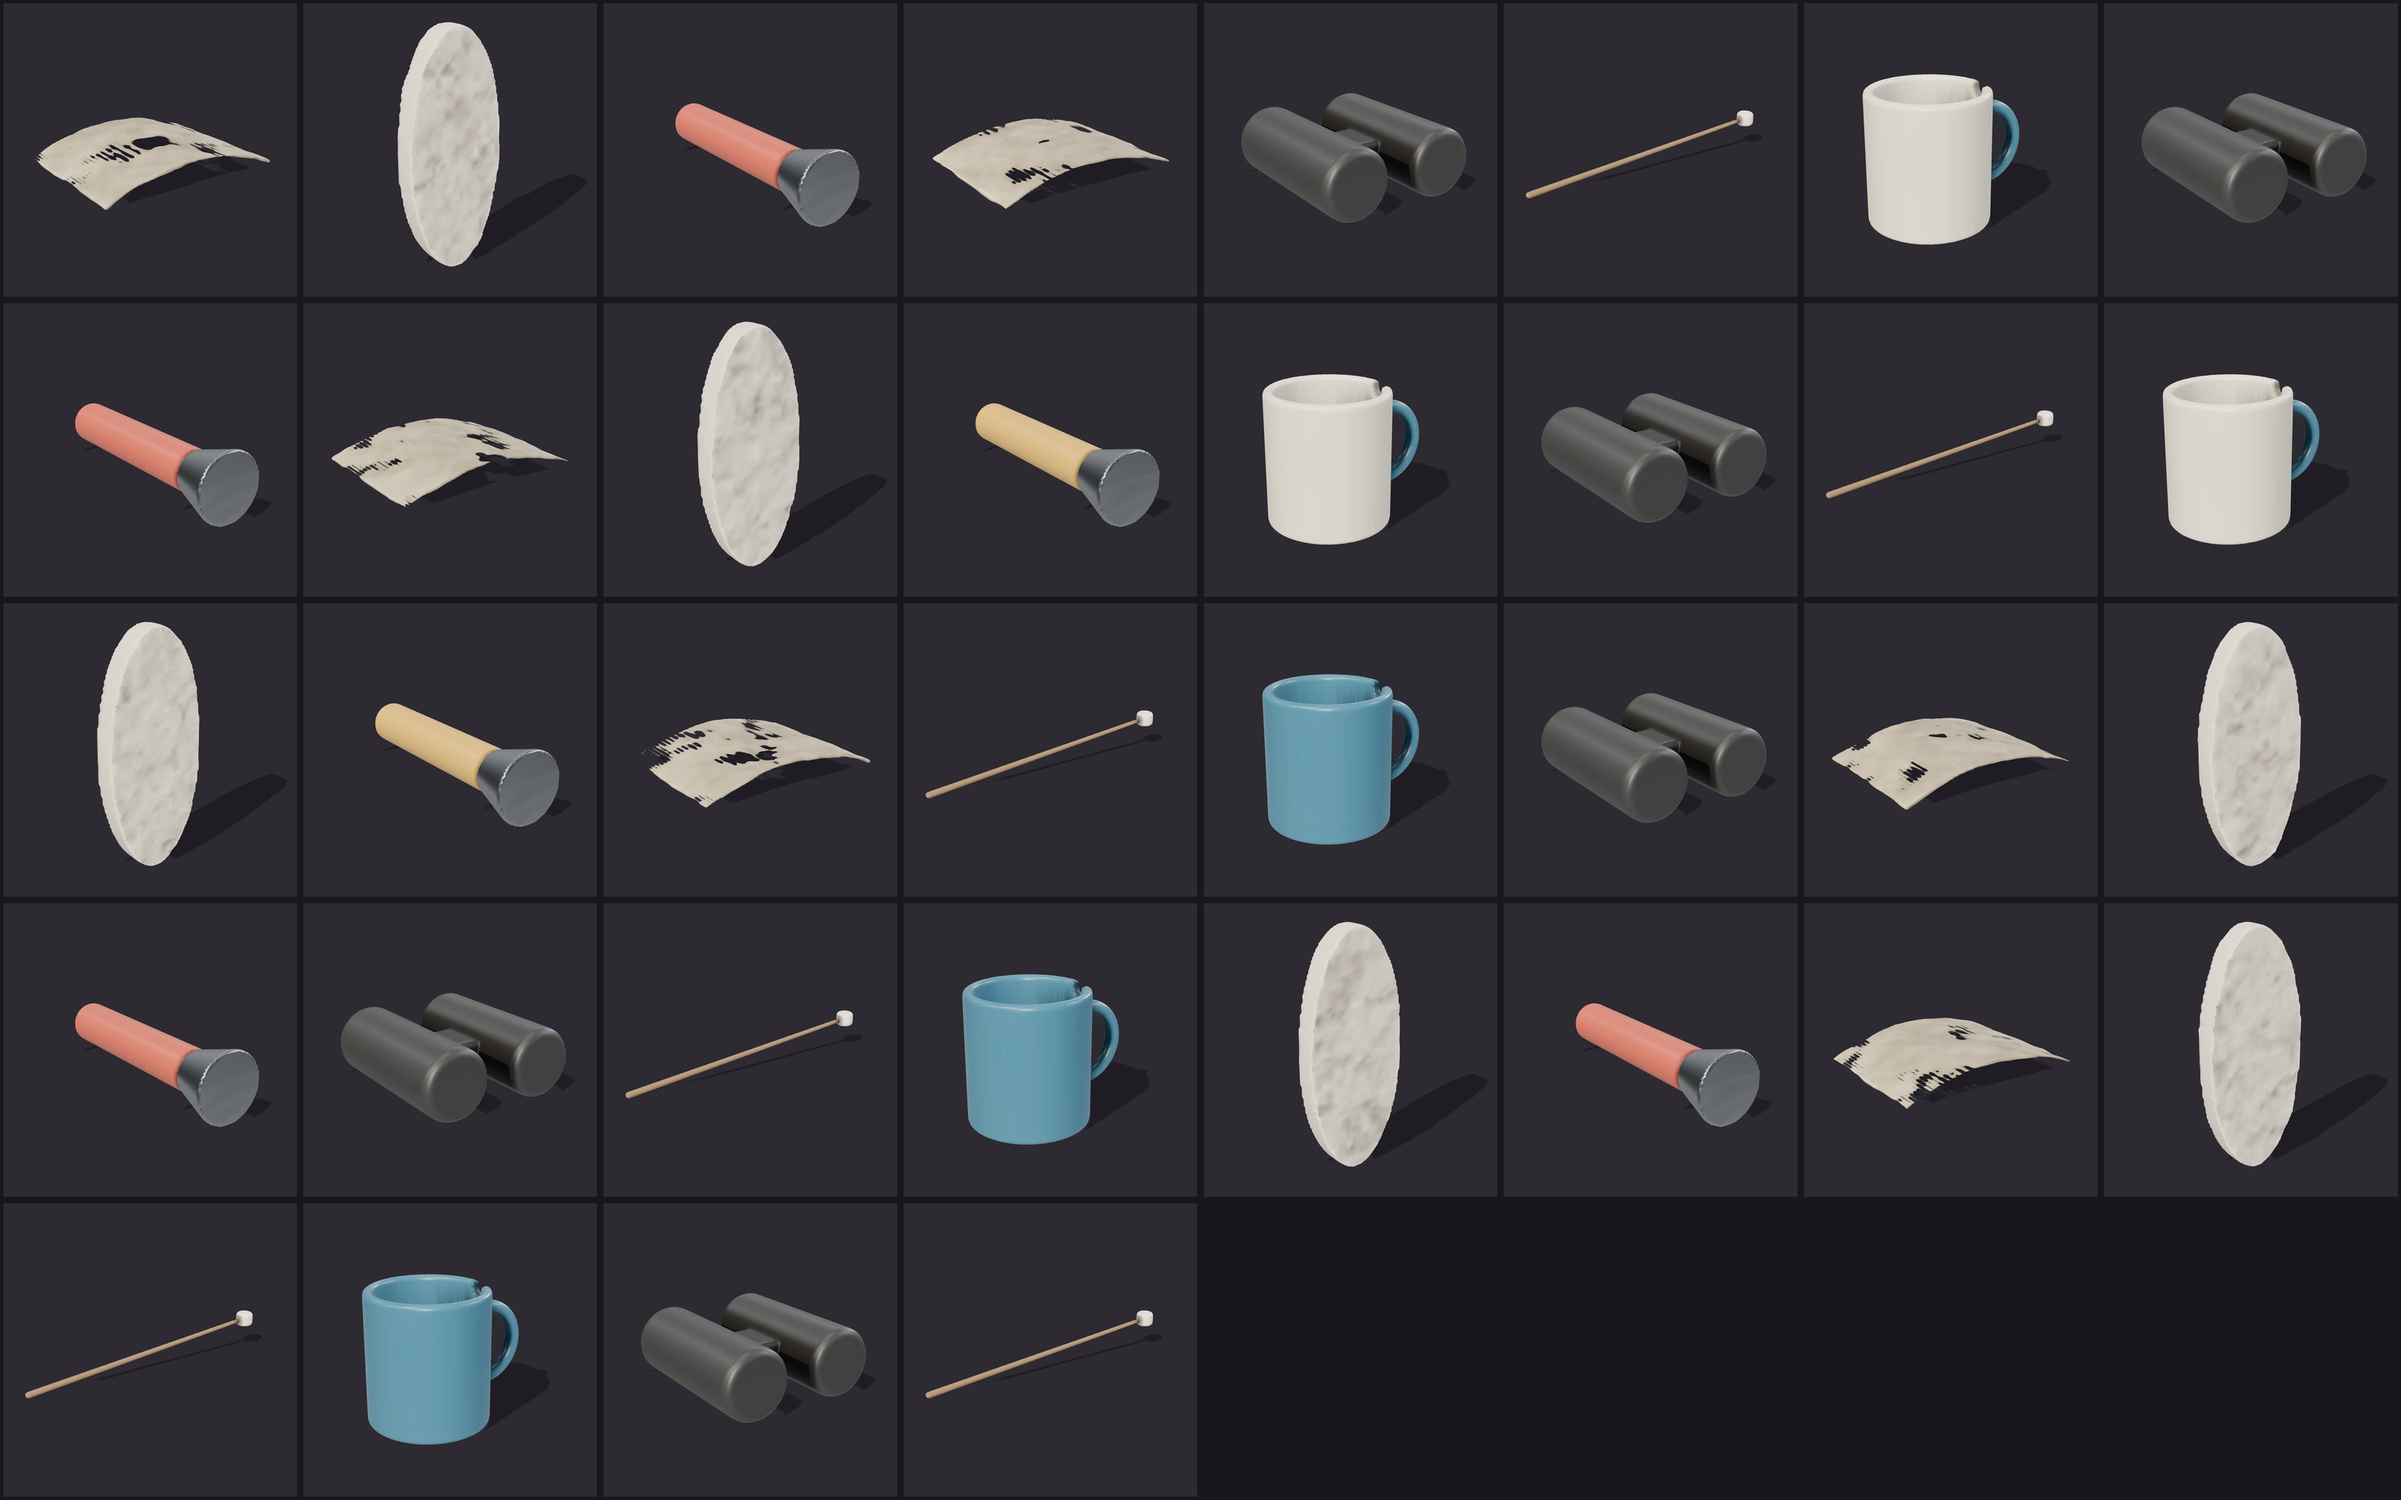
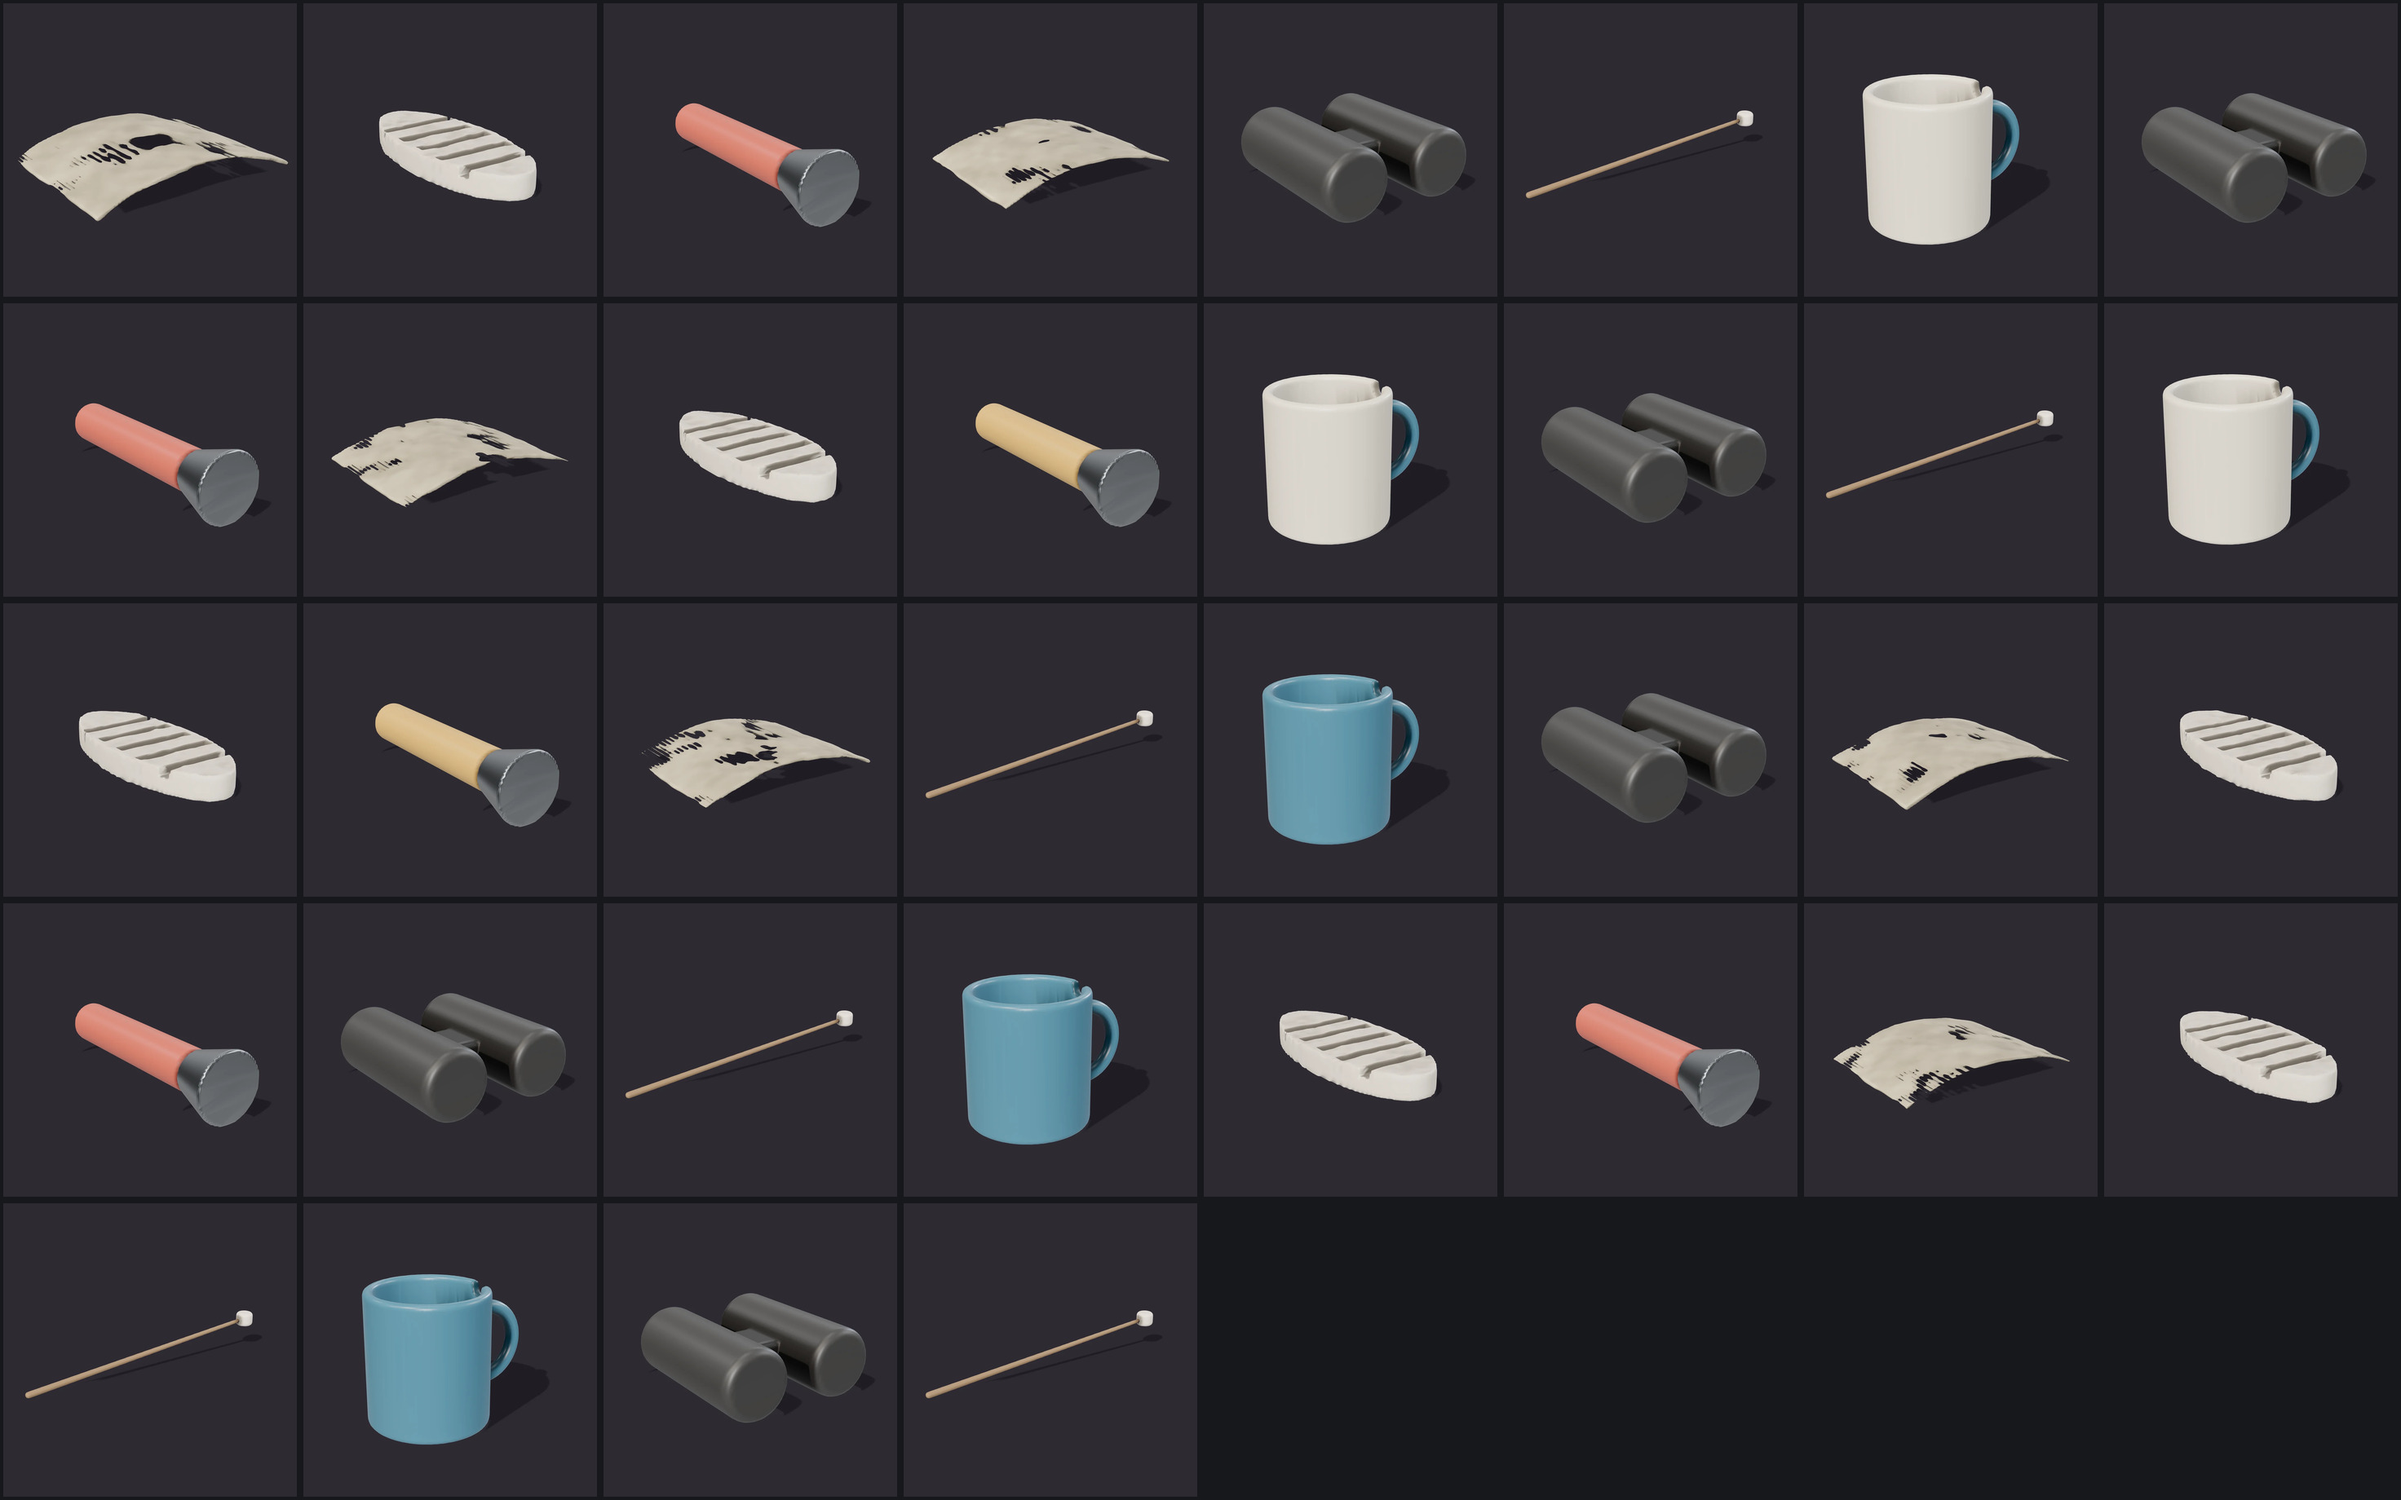
Studio run-02: improved family contact sheet; kit fixes (carve, framing, elevation, --fresh)

diff --git a/tools/studio/kit/build.ts b/tools/studio/kit/build.ts
@@ -5,7 +5,16 @@
 // Output: assets-src/studio/models/<family>/<id>.glb, assets-src/studio/textures/<id>/,
 // and assets-src/studio/index.json (read by the turntable renderer).
 import { execFileSync, spawn } from "node:child_process";
-import { appendFileSync, existsSync, mkdirSync, readFileSync, rmSync, statSync, writeFileSync } from "node:fs";
+import {
+  appendFileSync,
+  existsSync,
+  mkdirSync,
+  readdirSync,
+  readFileSync,
+  rmSync,
+  statSync,
+  writeFileSync,
+} from "node:fs";
 import os from "node:os";
 import path from "node:path";
 import { meshNode, toGlb } from "./mesh";
@@ -22,6 +31,8 @@ export type Family = {
   keep?: number;
   hero?: boolean;
   silhouette?: boolean;
+  /** Turntable camera elevation in degrees (default 20; flat things want 55–70). */
+  elevation?: number;
   wear?: number;
   dirt?: number;
   build: (seed: number, index: number) => Node;
@@ -95,6 +106,7 @@ async function work(worker: number, of: number) {
             bytes: statSync(final).size,
             hero: !!family.hero,
             silhouette: !!family.silhouette,
+            elevation: family.elevation ?? 20,
             seconds: Math.round((performance.now() - started) / 100) / 10,
           })}\n`,
         );
@@ -117,6 +129,20 @@ async function work(worker: number, of: number) {
     }
   }
 }
+
+// --fresh: rebuild the selected families from scratch (removes their models and renders).
+if (args.includes("--fresh") && !args.includes("--worker"))
+  for (const family of recipes.families)
+    if (!only || only.includes(family.id))
+      for (const dir of ["models", "renders"]) {
+        rmSync(path.join(out, dir, family.id), { recursive: true, force: true });
+        for (const extra of ["turntables", "silhouettes"]) {
+          const folder = path.join(out, extra);
+          if (!existsSync(folder)) continue;
+          for (const name of readdirSync(folder))
+            if (name.startsWith(`${family.id}-`)) rmSync(path.join(folder, name), { recursive: true, force: true });
+        }
+      }
 
 if (args.includes("--worker")) {
   await work(Number(flag("--worker")), Number(flag("--of")));

diff --git a/tools/studio/kit/sdf.ts b/tools/studio/kit/sdf.ts
@@ -315,7 +315,8 @@ export const bend = (n: Node, k: number): Node => {
     const s = Math.sin(k * x);
     return [c * x - s * y, s * x + c * y];
   };
-  const extra = Math.abs(k) * Math.max(Math.abs(n.box[0]), Math.abs(n.box[3])) ** 2;
+  const reach = Math.max(Math.abs(n.box[0]), Math.abs(n.box[3]));
+  const extra = Math.min(Math.abs(k) * reach ** 2, reach);
   return {
     d: (x, y, z) => {
       const [bx, by] = warp(x, y);
